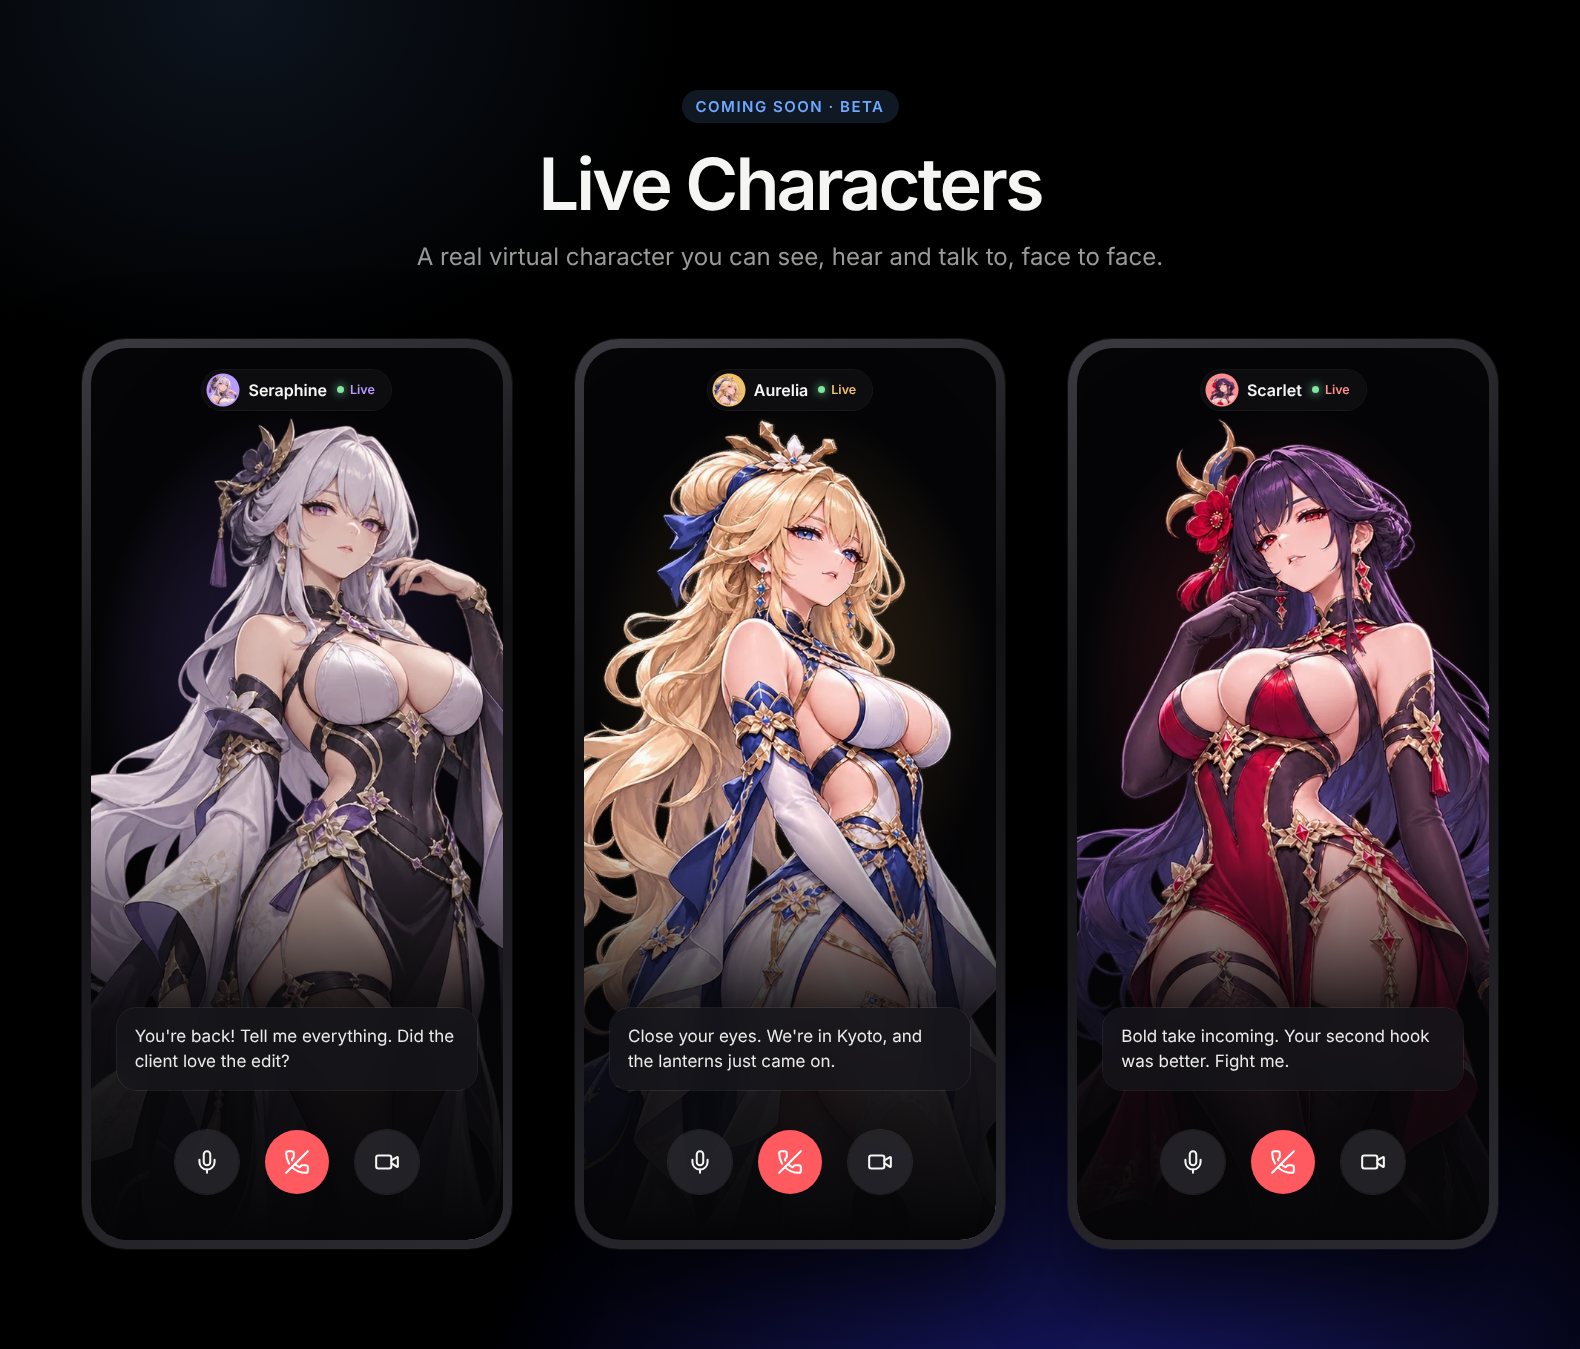
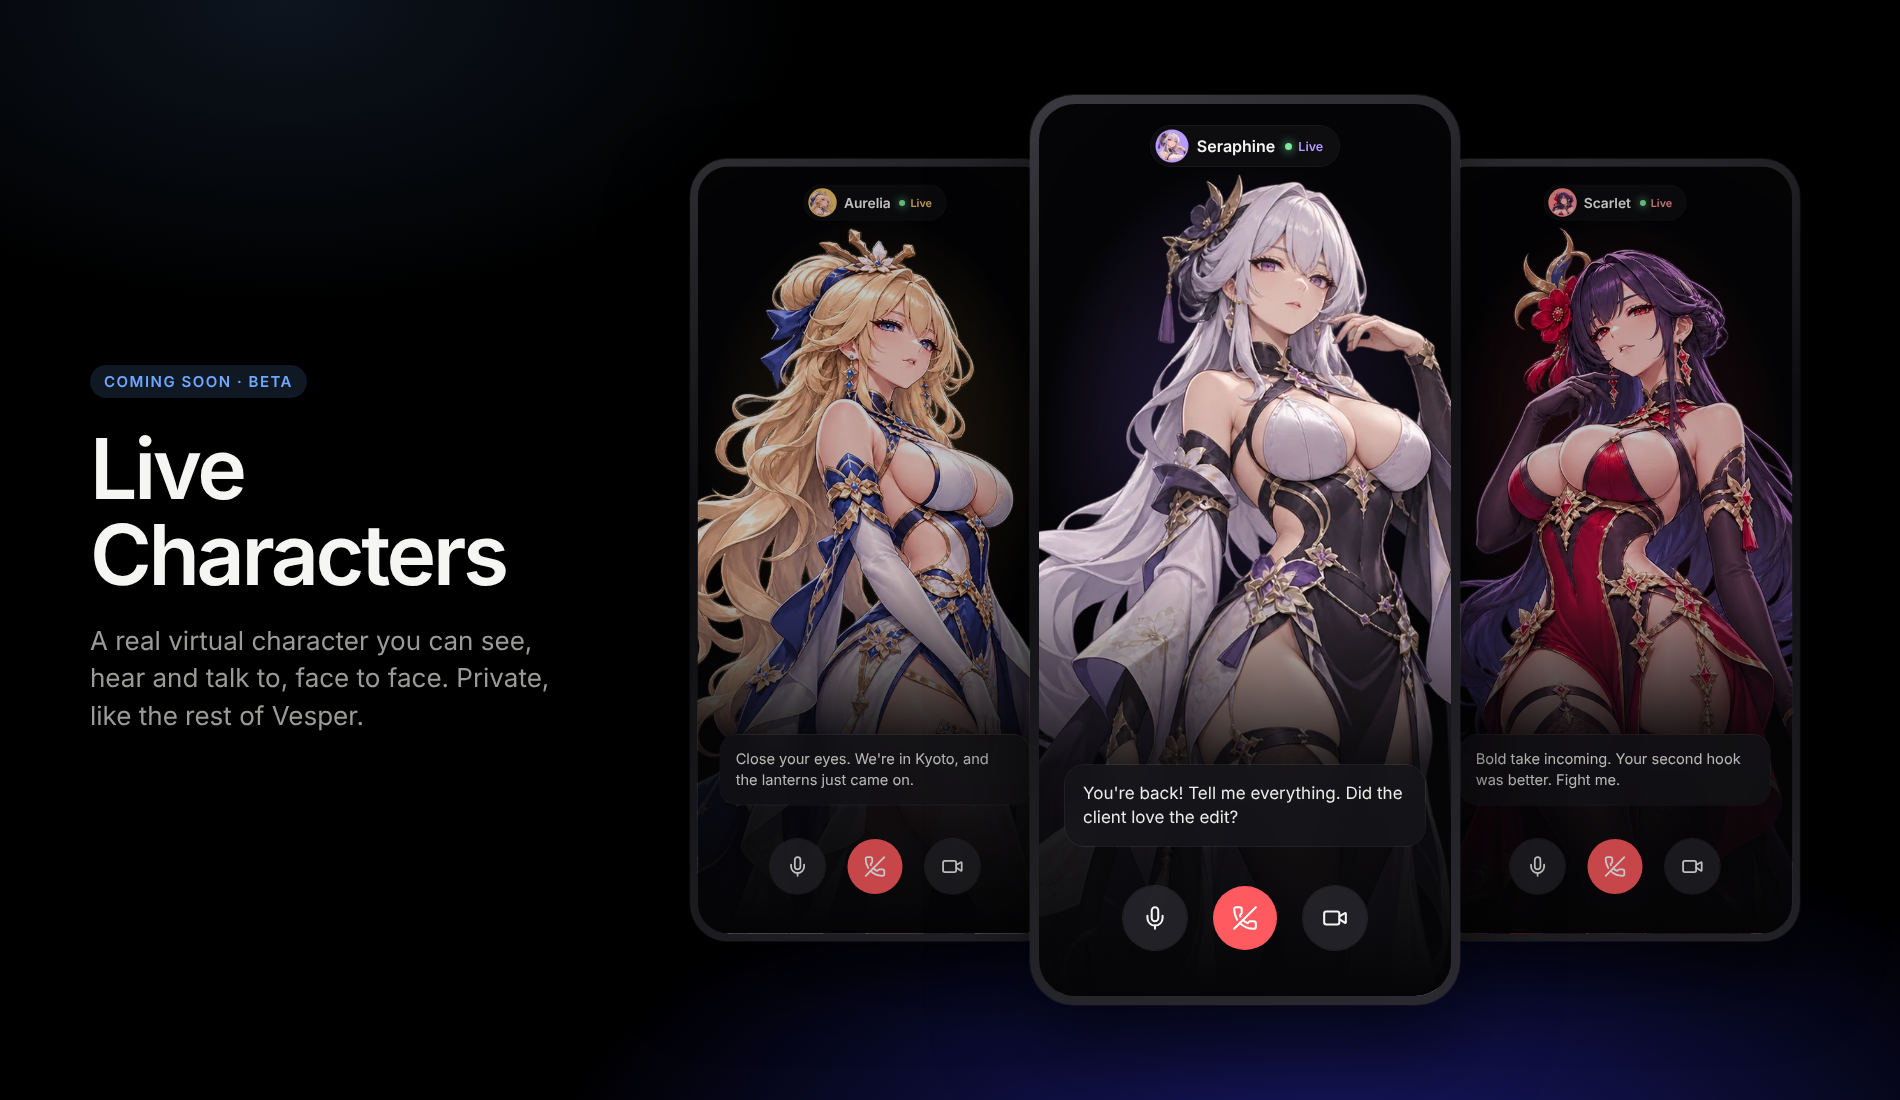
Live Characters art: text on the left, Aurelia, Seraphine and Scarlet fanned beside it
Claude-Session: https://claude.ai/code/session_01Pqes7qMJVCgUAH6HtcUGzX

diff --git a/docs/art/make-art.js b/docs/art/make-art.js
@@ -235,16 +235,17 @@ async function compose(browser, base) {
         <div style="width:64px;height:64px;border-radius:50%;display:grid;place-items:center;background:#ff5a5f;color:#fff">${end}</div>
         <div style="width:64px;height:64px;border-radius:50%;display:grid;place-items:center;background:rgba(40,40,46,.8);box-shadow:0 0 0 1px rgba(255,255,255,.1)">${cam}</div></div>
     </div></div>`;
-  await render("live.png", artPage(`<div style="position:relative;padding:90px 80px 100px;overflow:hidden"><div class="glow"></div>
-    <div style="position:relative;text-align:center;margin-bottom:64px">
-      <div style="display:inline-block;font-size:15px;font-weight:600;letter-spacing:.1em;text-transform:uppercase;color:#6ea8ff;background:rgba(110,168,255,.14);padding:7px 14px;border-radius:999px;margin-bottom:24px">Coming soon · Beta</div>
-      <div style="font-size:72px;font-weight:600;letter-spacing:-.04em;line-height:1.04">Live Characters</div>
-      <div style="font-size:24px;color:#9a9a98;margin-top:18px;line-height:1.45">A real virtual character you can see, hear and talk to, face to face.</div></div>
-    <div style="position:relative;display:grid;grid-template-columns:repeat(3,1fr);gap:60px">
-      ${liveCall("seraphine", "Seraphine", "#b89cff", "rgba(150,110,255,.38)", "You're back! Tell me everything. Did the client love the edit?")}
-      ${liveCall("aurelia", "Aurelia", "#f0c26b", "rgba(255,190,90,.3)", "Close your eyes. We're in Kyoto, and the lanterns just came on.")}
-      ${liveCall("scarlet", "Scarlet", "#ff8f8f", "rgba(255,80,110,.32)", "Bold take incoming. Your second hook was better. Fight me.")}
-    </div></div>`, 1580), 1580);
+  const side = (html, z, dx) => `<div style="position:relative;z-index:${z};transform:translateX(${dx}px) scale(${z === 2 ? 1 : .86});transform-origin:center;${z === 2 ? "" : "filter:brightness(.78)"}">${html}</div>`;
+  await render("live.png", artPage(`<div style="position:relative;height:1100px;padding:0 90px;overflow:hidden;display:flex;align-items:center;gap:40px"><div class="glow"></div>
+    <div style="position:relative;flex:0 0 470px">
+      <div style="display:inline-block;font-size:15px;font-weight:600;letter-spacing:.1em;text-transform:uppercase;color:#6ea8ff;background:rgba(110,168,255,.14);padding:7px 14px;border-radius:999px;margin-bottom:28px">Coming soon · Beta</div>
+      <div style="font-size:84px;font-weight:600;letter-spacing:-.04em;line-height:1.02">Live<br>Characters</div>
+      <div style="font-size:26px;color:#9a9a98;margin-top:24px;line-height:1.45">A real virtual character you can see, hear and talk to, face to face. Private, like the rest of Vesper.</div></div>
+    <div style="position:relative;flex:1;display:flex;align-items:center;justify-content:flex-start">
+      ${side(liveCall("aurelia", "Aurelia", "#f0c26b", "rgba(255,190,90,.3)", "Close your eyes. We're in Kyoto, and the lanterns just came on."), 1, 60)}
+      ${side(liveCall("seraphine", "Seraphine", "#b89cff", "rgba(150,110,255,.38)", "You're back! Tell me everything. Did the client love the edit?"), 2, 0)}
+      ${side(liveCall("scarlet", "Scarlet", "#ff8f8f", "rgba(255,80,110,.32)", "Bold take incoming. Your second hook was better. Fight me."), 1, -60)}
+    </div></div>`, 1900), 1900);
 
   const fin = ["chrome", "gold", "rose", "graphite", "midnight", "emerald"];
   const finNames = { chrome: "Chrome", gold: "Gold", rose: "Rose Gold", graphite: "Graphite", midnight: "Midnight", emerald: "Emerald" };
